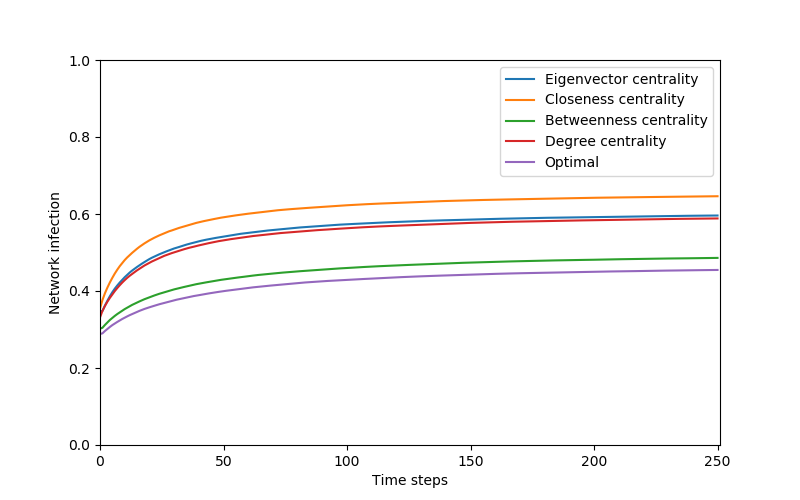
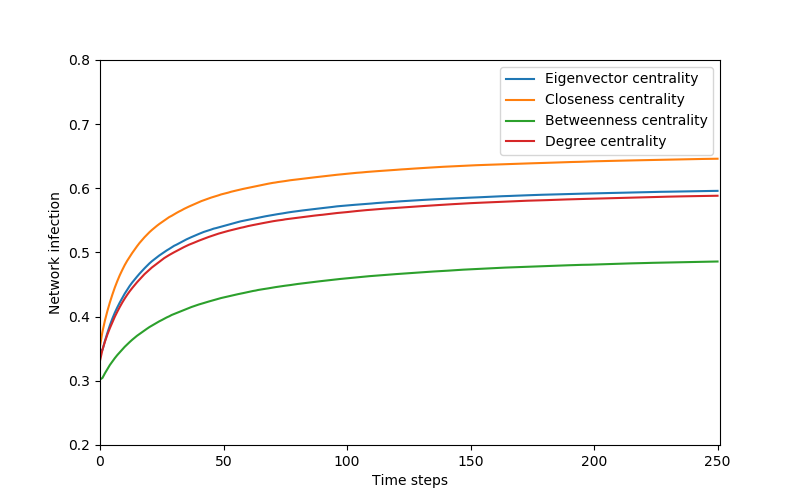
Generated new plots

diff --git a/execute/plots/solution_comparison.py b/execute/plots/solution_comparison.py
@@ -1,0 +1,38 @@
+from utilities import load_csv_col
+from utilities.plotting import plot_infection
+from matplotlib.pyplot import show
+from numpy import float
+
+data_path = '../../data/'
+figure_path = '../../results/'
+centrality_path = data_path + 'centrality_metrics/'
+max_entropy_path = data_path + 'max_entropy/'
+
+versions = ['single_red', 'uniform_red']
+optimal_headers = ['Optimal centrality strategy', 'Optimal max entropy strategy', 'Optimal analytical strategy']
+
+for version in versions:
+    # Get data
+    centrality_data, centrality_headers = load_csv_col(centrality_path + version + '.csv',
+                                                       with_headers=True, trans=True, parse=float)
+    max_entropy_data, max_entropy_headers = load_csv_col(max_entropy_path + version + '.csv',
+                                                         with_headers=True, trans=True, parse=float)
+    # Take optimal metrics
+    opt_centrality = centrality_data[2]
+    opt_entropy = max_entropy_data[1]
+    opt_analytical = centrality_data[4]
+
+    # Define paths
+    centrality_plot_path = figure_path + 'centrality_metrics/' + version + '.png'
+    entropy_plot_path = figure_path + 'max_entropy/' + version + '.png'
+    optimal_plot_path = figure_path + 'optimal/' + version + '.png'
+
+    # Plot results
+    plot_infection(centrality_data[:4], blocking=False, multiple=True,
+                   leg=centrality_headers, file_name=centrality_plot_path)
+    plot_infection(max_entropy_data[:4], blocking=False, multiple=True,
+                   leg=max_entropy_headers, file_name=entropy_plot_path)
+    plot_infection([opt_centrality, opt_entropy, opt_analytical],
+                   blocking=False, multiple=True, leg=optimal_headers, file_name=optimal_plot_path)
+
+show()  # Keep figures open

diff --git a/utilities/io.py b/utilities/io.py
@@ -1,6 +1,6 @@
 from csv import writer, reader
 from networkx import to_numpy_array, from_numpy_array, from_edgelist
-from numpy import array
+from numpy import array, transpose
 
 network_path = '../data/network.csv'
 state_path = '../data/state.csv'
@@ -52,7 +52,7 @@ def load_frequencies(filename=frequency_path, cast=True):
 
 
 # Function to import specific columns of csv file
-def load_csv_col(file, cols=None, np_arr=True, with_headers=False):
+def load_csv_col(file, cols=None, np_arr=True, with_headers=False, trans=False, parse=None):
     data = []
     headers = None
     with open(file, encoding='utf8') as fl:
@@ -72,6 +72,9 @@ def load_csv_col(file, cols=None, np_arr=True, with_headers=False):
                 continue
 
     data = array(data) if np_arr else data
+    if trans: data = transpose(data)
+    if parse is not None: data = data.astype(parse)
+
     if with_headers:
         return data, headers
     return data

diff --git a/utilities/plotting/exposure.py b/utilities/plotting/exposure.py
@@ -14,7 +14,7 @@ def plot_infection(trial_exposures, blocking=True, size=fig_size, multiple=False
     else:
         ax.plot(trial_exposures)
 
-    ax.set_ylim(0, 1)
+    ax.set_ylim(.2, .8)
     ax.set_xlim(0, steps)
     xlabel('Time steps')
     ylabel('Network infection')
